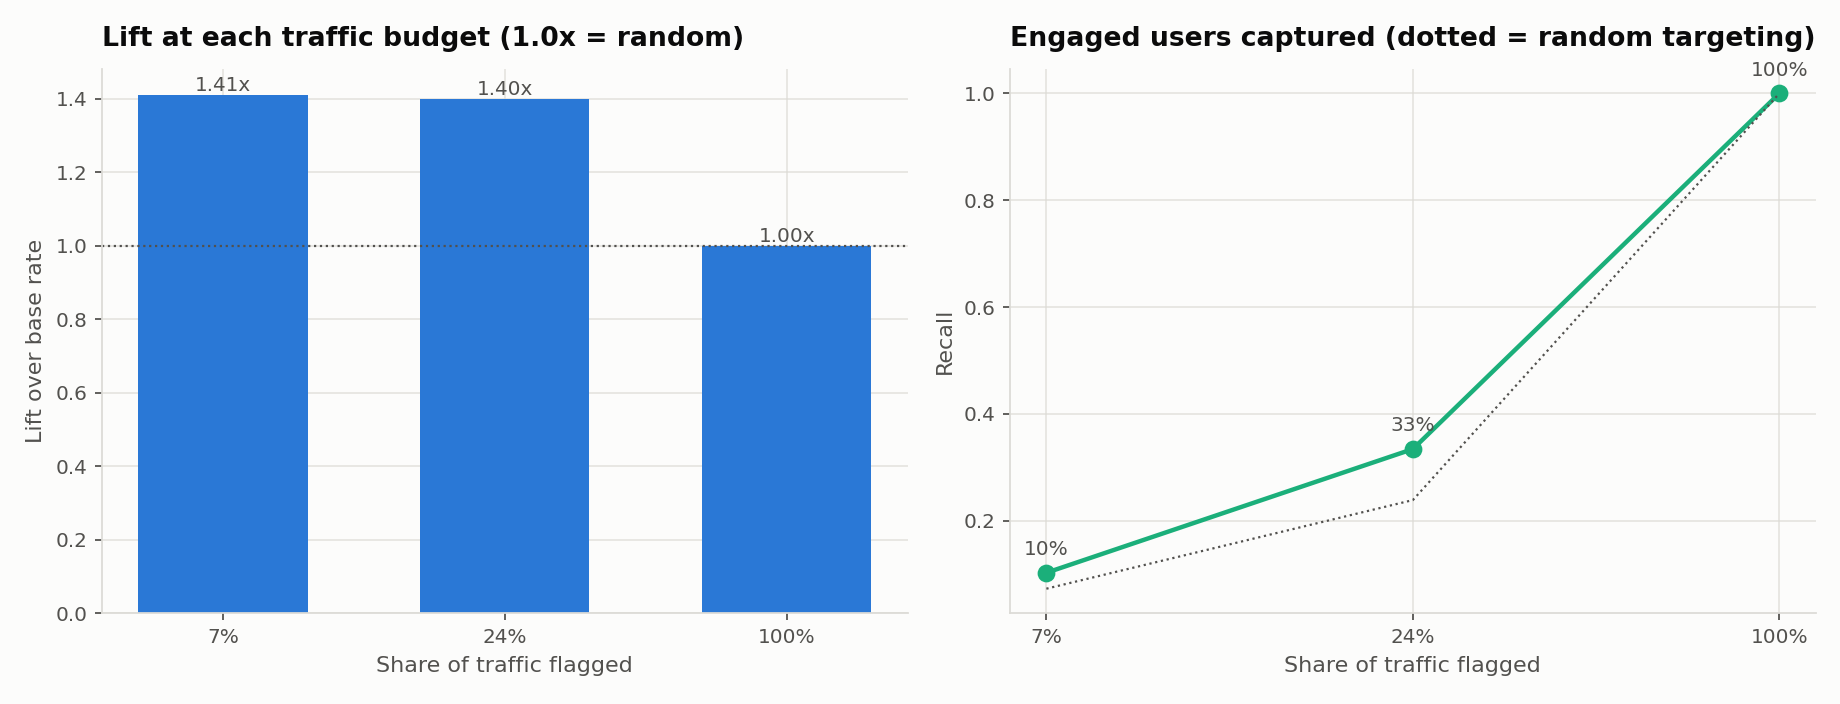
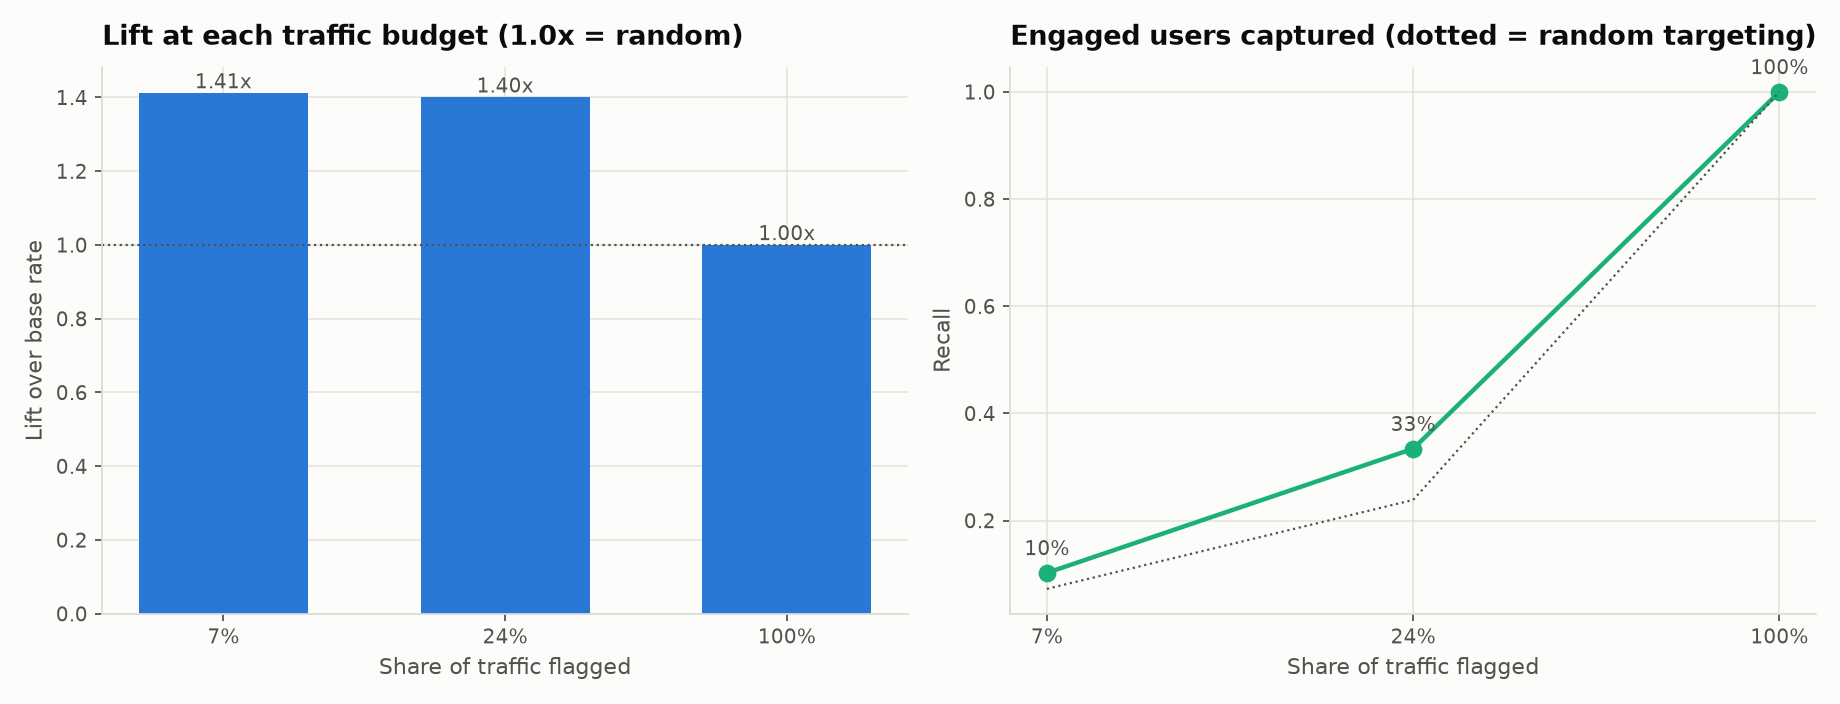
Declare matplotlib, regenerate figures, add data preview
Retraining from a freshly built feature table surfaced two problems and
one gap.

matplotlib was never declared as a dependency, but plots.py imports it
and train.py calls render_all by default. A clean install following the
README crashed at the final step of training. Added to requirements.txt.

The six figures are regenerated from the rebuilt table. The reported
numbers are unchanged (threshold 0.381201, lift 1.4004, positive rate
0.277916); only the rendering differs, so no document needed updating.

Added docs/DATA_PREVIEW.md plus a 20-row sample CSV, so the generated
table can be inspected without opening the 47 MB file, and linked both
from the data section and the repository layout in the README. The
preview also records that timestamp and session_id must be present:
without timestamp, train.py silently falls back to a random split
instead of the chronological one the metadata claims.

Tests: 43 passed.

diff --git a/docs/DATA_PREVIEW.md b/docs/DATA_PREVIEW.md
@@ -1,0 +1,70 @@
+# processed_interactions.csv — 数据预览
+
+`prepare_data.py` 的产物，也是 `train.py` 唯一的输入。本文件是它的“缩略图”，方便随时查阅而不必打开 47 MB 的原文件。
+
+- 完整文件：`data/processed_interactions.csv`（已 gitignore，用 `python -m single_prediction.prepare_data` 重建）
+- 可直接打开的样本：[`processed_interactions_sample.csv`](processed_interactions_sample.csv)（前 20 行）
+- 重建耗时约 1 分钟
+
+## 规模
+
+| 项 | 值 |
+|---|---|
+| 行数 | 500,000 |
+| 列数 | 8 |
+| 文件大小 | 47 MB |
+| 缺失值 | 0（全部 8 列） |
+| 正例率 `target_engaged` | 27.79% |
+| 时间跨度 | 2025-07-14 → 2025-08-14（约 1 个月） |
+
+## 列结构
+
+8 列 = 3 个 ID + 2 个切分键 + 2 个特征 + 1 个标签。原始 `interactions.csv` 有 43 列，其余的要么泄漏标签、要么线上取不到，被 `features.py` 有意丢弃——理由见 [FEATURE_SELECTION.md](FEATURE_SELECTION.md)。
+
+| # | 列名 | 类型 | 角色 | 唯一值 | 说明 |
+|---|---|---|---|---|---|
+| 1 | `interaction_id` | object | ID | 500,000 | 每行唯一 |
+| 2 | `user_id` | object | ID | 25,000 | |
+| 3 | `video_id` | object | ID | 35,000 | |
+| 4 | `session_id` | object | 切分键 | 54,403 | 无 timestamp 时的兜底分组依据 |
+| 5 | `timestamp` | object | 切分键 | 499,915 | ISO-8601 UTC，**时序切分依赖此列** |
+| 6 | `watch_time_seconds` | int64 | **特征** | 61 | 0–60 秒 |
+| 7 | `watch_ratio` | float64 | **特征** | 231 | 0–1，观看时长 / 视频时长 |
+| 8 | `target_engaged` | int64 | **标签** | 2 | liked OR shared OR commented OR followed_creator OR replayed |
+
+> `timestamp` 缺失会让 `train.py` 静默退化为随机切分而非时序切分——两列切分键必须存在。
+
+## 前 8 行
+
+| interaction_id | user_id | video_id | session_id | timestamp | watch_time_seconds | watch_ratio | target_engaged |
+|---|---|---|---|---|---|---|---|
+| int_00000000 | user_011733 | video_0001369 | session_00000001 | 2025-07-29T06:15:15.088Z | 37 | 0.740000 | 1 |
+| int_00000001 | user_004478 | video_0020797 | session_00000001 | 2025-08-14T10:05:56.487Z | 50 | 1.000000 | 1 |
+| int_00000002 | user_013708 | video_0011401 | session_00000001 | 2025-08-04T07:47:09.045Z | 3 | 0.200000 | 0 |
+| int_00000003 | user_017762 | video_0022813 | session_00000001 | 2025-08-07T10:46:07.763Z | 8 | 0.177778 | 0 |
+| int_00000004 | user_017542 | video_0007516 | session_00000001 | 2025-08-14T13:49:08.648Z | 26 | 0.742857 | 0 |
+| int_00000005 | user_007288 | video_0030665 | session_00000001 | 2025-08-08T20:30:00.016Z | 29 | 0.828571 | 1 |
+| int_00000006 | user_009164 | video_0034865 | session_00000001 | 2025-08-07T13:46:26.523Z | 20 | 1.000000 | 1 |
+| int_00000007 | user_011672 | video_0017351 | session_00000001 | 2025-08-08T23:26:14.121Z | 40 | 1.000000 | 0 |
+
+## 数值分布
+
+| | watch_time_seconds | watch_ratio | target_engaged |
+|---|---|---|---|
+| mean | 19.560264 | 0.519606 | 0.277916 |
+| std | 16.307897 | 0.360036 | 0.447972 |
+| min | 0.000000 | 0.000000 | 0.000000 |
+| 25% | 6.000000 | 0.200000 | 0.000000 |
+| 50% | 15.000000 | 0.466667 | 0.000000 |
+| 75% | 30.000000 | 0.950000 | 1.000000 |
+| max | 60.000000 | 1.000000 | 1.000000 |
+
+两个特征都无缺失、无需插补，量纲也接近，这是最终只保留它们的一个附带好处。信号强度有限（测试集 ROC-AUC 0.5796），这一点在 [DESIGN_DECISIONS.md](DESIGN_DECISIONS.md) 里有交代。
+
+## 自查命令
+
+```bash
+python -m single_prediction.prepare_data
+head -1 data/processed_interactions.csv    # 应输出上表的 8 个列名
+wc -l data/processed_interactions.csv      # 应为 500001（含表头）
+```

diff --git a/README.md b/README.md
@@ -59,6 +59,7 @@ interactions.csv (500k rows, 43 columns)      users.csv      videos.csv
    prepare_data.py     chunked streaming, Pandera contract check
              ▼
    processed_interactions.csv     500k rows x 2 features + label + split keys
+                                  (8 columns; preview in docs/DATA_PREVIEW.md)
              ▼
    train.py            chronological split -> 4 candidates
                        -> paired-bootstrap tie test -> cost-based selection
@@ -204,6 +205,12 @@ that — which is worth knowing before promising more.
 | `data/interactions.csv` | 500,000 | View log with timestamps, sessions and outcomes |
 | `data/users.csv` | 25,000 | User profiles |
 | `data/videos.csv` | 35,000 | Video metadata |
+| `data/processed_interactions.csv` | 500,000 | **Generated** feature table — the only input `train.py` reads |
+
+> **Data preview:** [docs/DATA_PREVIEW.md](docs/DATA_PREVIEW.md) — schema, first rows,
+> distributions and null counts for the generated table, plus a 20-row
+> [sample CSV](docs/processed_interactions_sample.csv) you can open directly. The full
+> file is gitignored; rebuild it with `python -m single_prediction.prepare_data`.
 
 **Label.** `target_engaged = liked OR shared OR commented OR followed_creator OR
 replayed`. Positive rate **27.79%**.
@@ -254,6 +261,8 @@ monitoring/
   monitoring.yaml                thresholds derived from the training run
   check_drift.py                 PSI input drift, output drift, with a self-test
 docs/
+  DATA_PREVIEW.md                schema and sample of the generated table
+  processed_interactions_sample.csv   first 20 rows, openable in any viewer
   FEATURE_SELECTION.md           why two features
   DESIGN_DECISIONS.md            seven ADRs
   API.md                         endpoint contract
